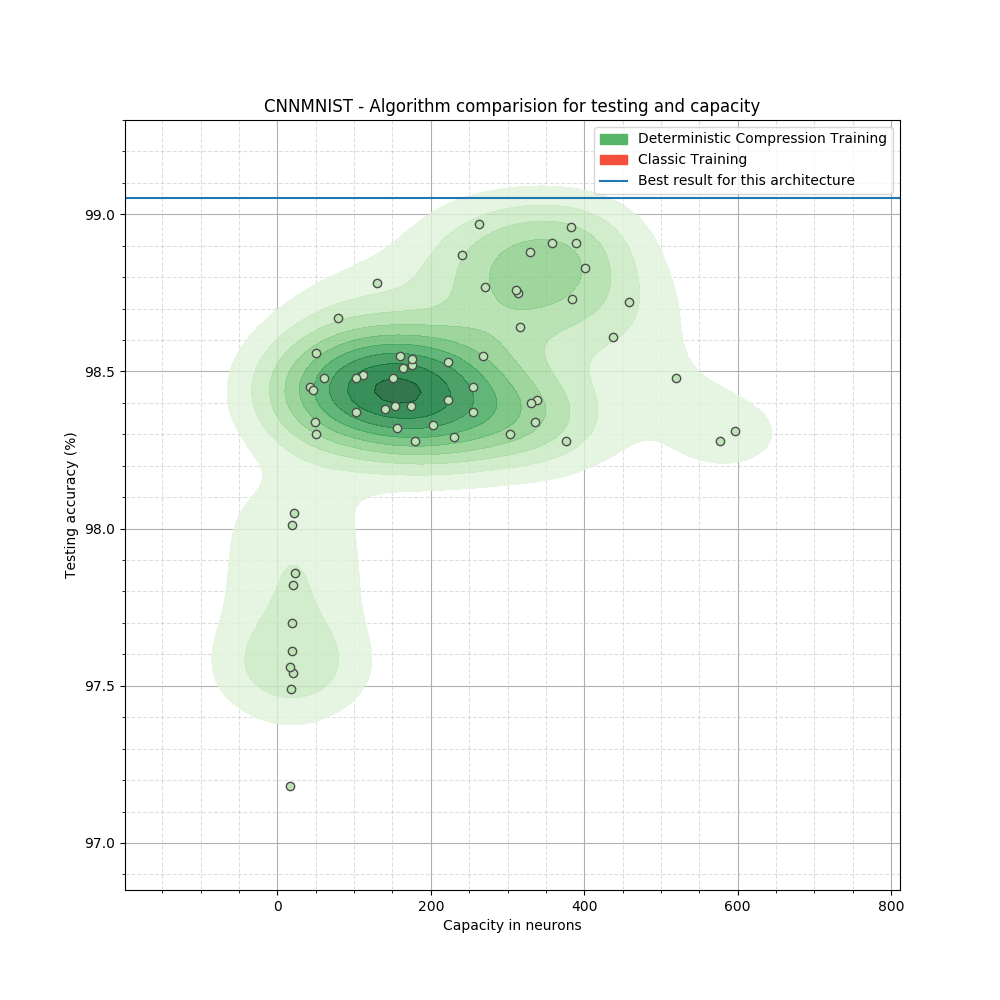
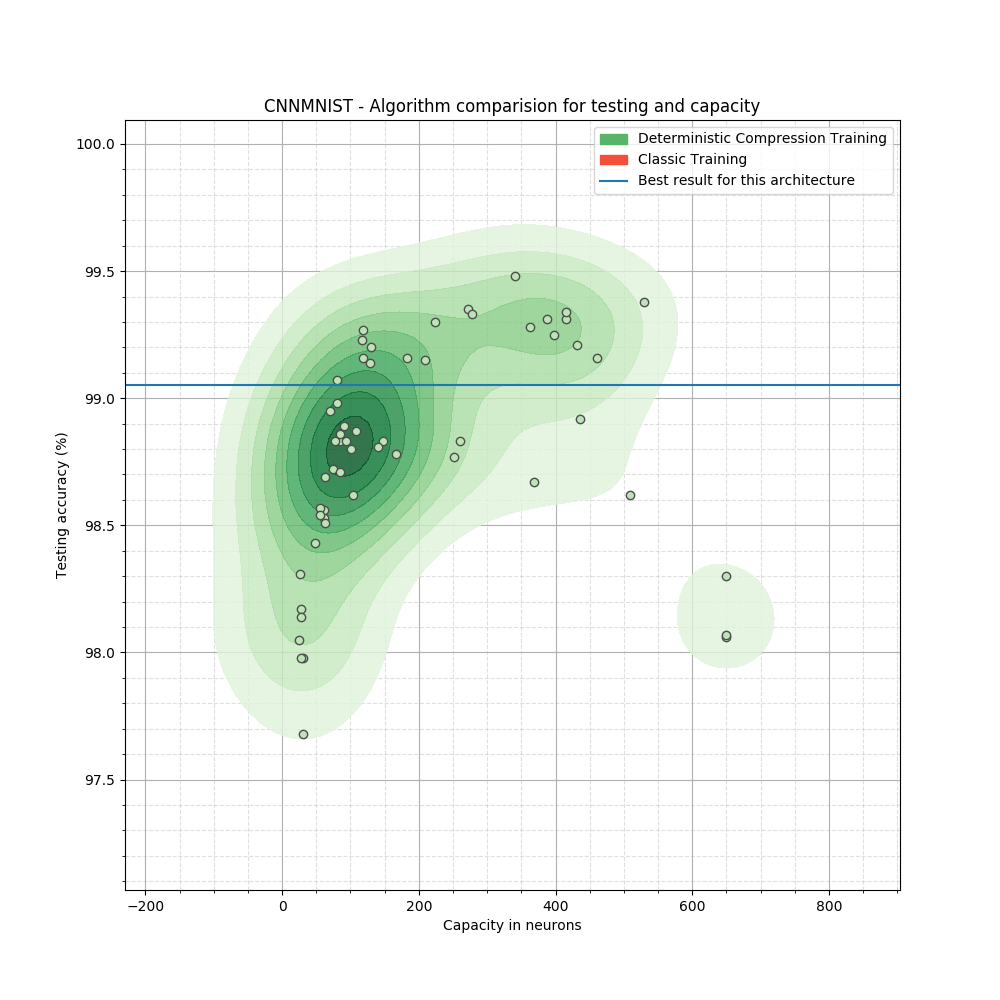
Fix bug in LeNet5 model

diff --git a/fixed_training.py b/fixed_training.py
@@ -16,21 +16,38 @@ from algorithms.block_sparse_training_dynamic import compress_train, grow
 def get_corresponding_configurations(dataset_name):
     ids, experiments = get_experiments(dataset_name)
     summaries = get_summary(experiments)
-    configurations = summaries[['capacity_l0', 'capacity_l1', 'capacity_l2', 'capacity_l3']]
+    possible_capacities = list(summaries.columns)
+    capacities_to_get = [x for x in possible_capacities if 'capacity_l' in x]
+    configurations = summaries[capacities_to_get]
     configurations = configurations.astype(int).drop_duplicates() # Don't evaluate the same model multiple times
     return configurations.as_matrix().tolist()
 
 def get_model_from_configuration(configuration, dataset):
     layers = sum(x > 0 for x in configuration)
-    model = MultiLayerDynamicPerceptron(
-        layers,
-        in_features=DATASETS[dataset]['features_in'],
-        out_features=DATASETS[dataset]['features_out'],
-        initial_size=0
-    )
-    for i in range(layers):
-        model.processor[2 * i].grow(configuration[i])
-    model.processor[2 * (i + 1)].grow()
+    f_in = DATASETS[DS]['features_in']
+    f_out = DATASETS[DS]['features_out']
+    if hasattr(f_in, '__len__'): # This is a tuple, so a picture => CNN
+        model = DynamicCNN(
+            layers,
+            in_features=f_in,
+            out_features=f_out,
+            conv_initial_size=initial_size
+        )
+        for i in range(layers):
+            model.processor[3 * i].grow(configuration[i])
+        model.processor[3*layers].grow()
+        model.processor[3*layers + 1].grow(configuration[-1])
+        model.processor[3*layers +3].grow()
+    else:
+        model = MultiLayerDynamicPerceptron(
+            layers,
+            in_features=f_in,
+            out_features=f_out,
+            initial_size=0
+        )
+        for i in range(layers):
+            model.processor[2 * i].grow(configuration[i])
+        model.processor[2 * (i + 1)].grow()
     model()
     return model
 
@@ -48,6 +65,8 @@ if __name__ == "__main__":
         static_configurations = [x for x in static_configurations if sum(y > 0 for y in x) == layers]
         print(len(static_configurations))
         for configuration in static_configurations:
+            print(configuration)
+            continue
             for iteration in range(2):
                 params = (0, 1, layers, iteration, 'static')
                 initial_size = SIZES_PER_LAYER[layers]

diff --git a/utils/Poker.py b/utils/Poker.py
@@ -5,17 +5,26 @@ import pandas as pd
 from sklearn.preprocessing import OneHotEncoder
 from utils.wrapping import wrap
 
-testing_raw = np.asarray(pd.read_csv('./datasets/Poker/testing.csv').values)
-training_raw = np.asarray(pd.read_csv('./datasets/Poker/training.csv').values)
+testing_data = None
+training_data = None
+weights = None
 
-encoder = OneHotEncoder(categorical_features=list(range(10))).fit(testing_raw)
+def load_data():
+    global testing_data, training_data, weights
+    if weights == None:
+        testing_raw = np.asarray(pd.read_csv('./datasets/Poker/testing.csv').values)
+        training_raw = np.asarray(pd.read_csv('./datasets/Poker/training.csv').values)
 
-testing_data = np.asarray(encoder.transform(testing_raw).todense().astype('float32'))
-training_data = np.asarray(encoder.transform(training_raw).todense().astype('float32'))
-weights = wrap(torch.from_numpy(1 / np.bincount(training_data[:, -1].astype('int64')))).float()
+        encoder = OneHotEncoder(categorical_features=list(range(10))).fit(testing_raw)
+
+        testing_data = np.asarray(encoder.transform(testing_raw).todense().astype('float32'))
+        training_data = np.asarray(encoder.transform(training_raw).todense().astype('float32'))
+        weights = wrap(torch.from_numpy(1 / np.bincount(training_data[:, -1].astype('int64')))).float()
+
 
 class PokerDataset(Dataset):
     def __init__(self, train=True):
+        load_data()
         if train:
             self.data = training_data
         else:
@@ -36,3 +45,8 @@ def get_dl(ds, train=True, bs=1000):
         pin_memory=torch.cuda.device_count() > 0,
         shuffle=True
     )
+
+if __name__ == '__main__':
+    print(weights)
+    load_data()
+    print(weights)

diff --git a/models/DynamicCNN.py b/models/DynamicCNN.py
@@ -26,6 +26,7 @@ class DynamicCNN(nn.Module):
         prefinal.set_device_id(device_id)
         prefinal.initial_size=500
         layers.append(prefinal)
+        layers.append(activation())
         last = Linear(out_features=out_features, weight_initializer=kaiming_uniform, bias_initializer=normal)
         last.set_device_id(device_id)
         layers.append(last)
